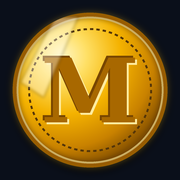
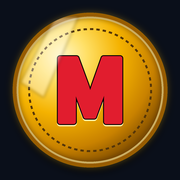
앱 아이콘 M을 빨강+검정 테두리로
Claude-Session: https://claude.ai/code/session_01BWXrJ9VGSMWgAyPBokpwys

Changed region(s): [[0.2222, 0.3056, 0.7778, 0.7222]]

diff --git a/index.html b/index.html
@@ -9,8 +9,8 @@
 <meta name="apple-mobile-web-app-title" content="ㅇㅇㅇ주식딸랑이">
 <meta name="apple-mobile-web-app-status-bar-style" content="black-translucent">
 <link rel="manifest" href="manifest.webmanifest">
-<link rel="apple-touch-icon" href="icons/icon-180.png?v=2">
-<link rel="icon" href="icons/icon-192.png?v=2">
+<link rel="apple-touch-icon" href="icons/icon-180.png?v=3">
+<link rel="icon" href="icons/icon-192.png?v=3">
 <title>주식딸랑이</title>
 <style>
 :root{--bg:#0b1220;--card:#121b2e;--tile:#0e1626;--line:#1f2b44;--tx:#e8edf7;--mut:#8b98b3;--up:#ff5a62;--dn:#4d8dff;--acc:#2dd4a7}
